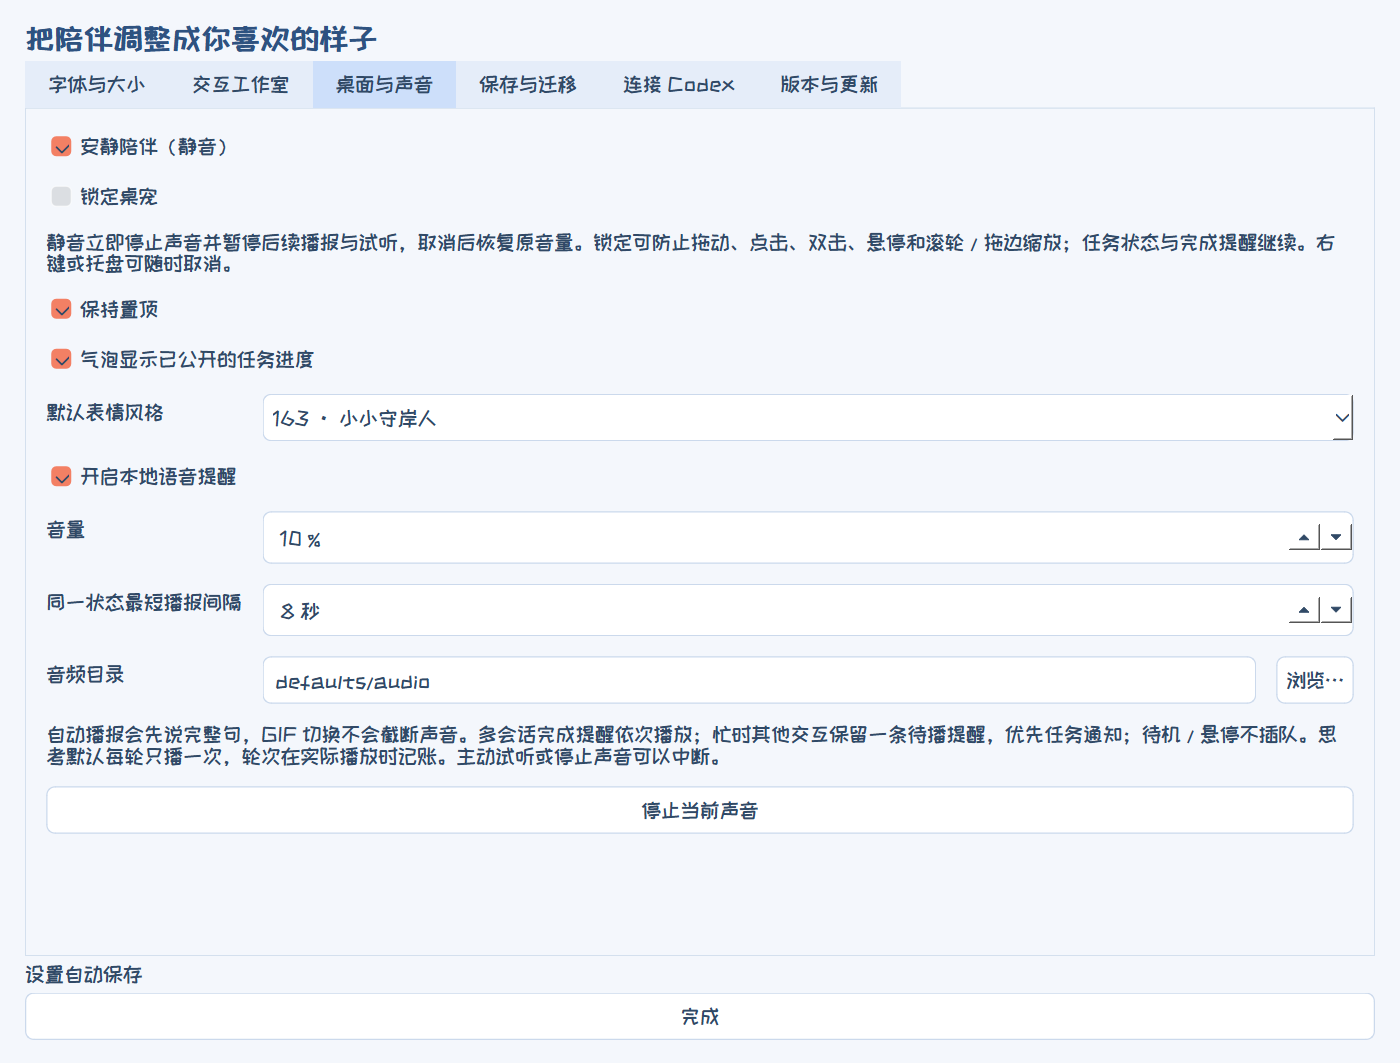
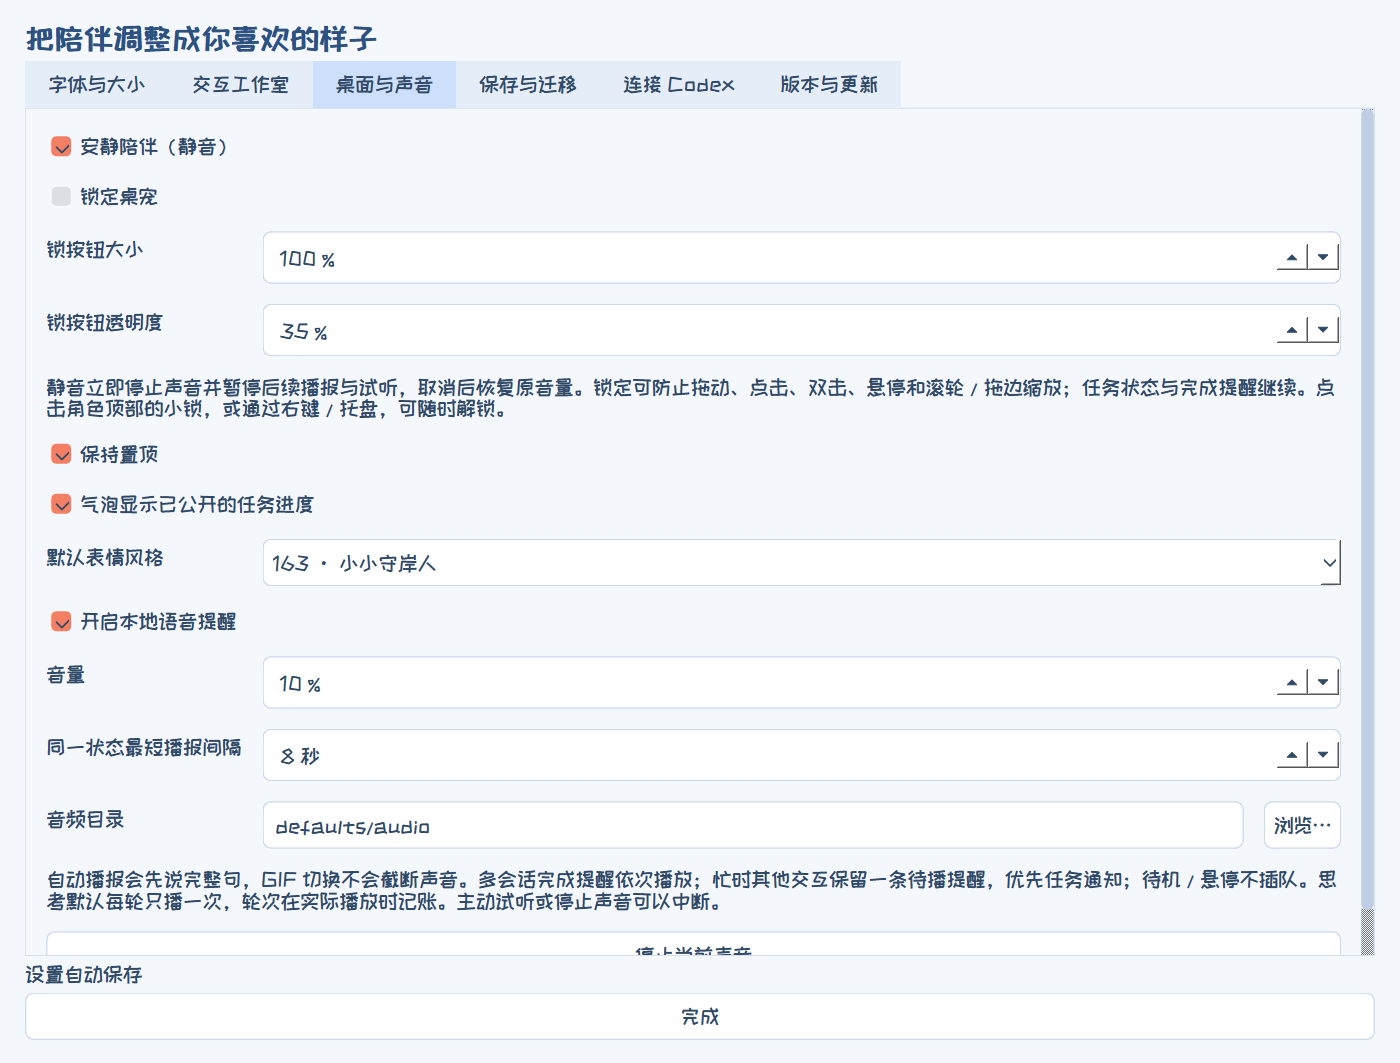
Add hover-revealed lock button with proportional size controls

Changed region(s): [[0.0307, 0.0931, 0.9829, 0.9003], [0.1843, 0.6209, 0.3071, 0.6519], [0.0307, 0.6209, 0.0921, 0.6519]]

diff --git a/tests/test_settings_controls.py b/tests/test_settings_controls.py
@@ -2,7 +2,7 @@
 import copy,json,pathlib,shutil,tempfile,unittest,wave
 from unittest.mock import patch
 from PySide6.QtCore import Qt,QPoint,QPointF,QEvent
-from PySide6.QtGui import QMouseEvent,QWheelEvent
+from PySide6.QtGui import QMouseEvent,QWheelEvent,QEnterEvent
 from PySide6.QtWidgets import QApplication,QPushButton
 from shorekeeper_pet import pet as module
 from shorekeeper_pet.config_io import save_atomic,migrate_settings,export_bundle,import_bundle
@@ -113,6 +113,67 @@ class SettingsControlsTests(unittest.TestCase):
             for name in ['audio/voice.wav','fonts/test.otf',module.ASSETS[self.aid]['path']]:self.assertEqual((source/name).read_bytes(),(self.root/name).read_bytes())
         with patch.object(p,'refresh_assets',return_value=[]): p.apply_settings(cfg)
         self.assertTrue(p.locked);self.assertTrue(p.options['audio_muted'])
+
+    def test_direct_lock_clicks_toggle_without_drag_or_character_reaction(self):
+        p=self.pet;button=p.lock_button;point=QPointF(button.rect().center())
+        before=(p.pos(),p.controller.serial)
+        for expected,tip in ((True,'点击解锁'),(False,'点击锁定')):
+            self.mouse(button,QEvent.Type.MouseButtonPress,point)
+            self.mouse(button,QEvent.Type.MouseButtonRelease,point)
+            self.assertEqual(p.locked,expected);self.assertEqual(button.isChecked(),expected)
+            self.assertEqual(button.toolTip(),tip)
+            self.assertEqual((p.pos(),p.controller.serial),before)
+            self.assertIsNone(p.drag_offset);self.assertFalse(p.click_timer.isActive())
+        self.mouse(button,QEvent.Type.MouseButtonPress,point)
+        outside=QPointF(button.width()+30,button.height()+30)
+        self.mouse(button,QEvent.Type.MouseMove,outside)
+        self.mouse(button,QEvent.Type.MouseButtonRelease,outside)
+        self.assertFalse(p.locked);self.assertEqual(p.pos(),before[0])
+
+    def test_lock_button_stays_centered_and_syncs_settings_and_hover(self):
+        p=self.pet;button=p.lock_button
+        for scale in (.5,1,1.5):
+            p.set_scale(scale)
+            self.assertAlmostEqual(button.x()+button.width()/2,p.pet_rect.center().x()*p.scale_factor,delta=1)
+            self.assertEqual(button.y(),round(p.pet_rect.top()*p.scale_factor))
+            self.assertTrue(p.rect().contains(button.geometry()))
+        p.hover_timer.start(500);p.click_timer.start(500);serial=p.controller.serial
+        point=QPointF(button.rect().center())
+        QApplication.sendEvent(button,QEnterEvent(point,point,QPointF(button.mapToGlobal(point.toPoint()))))
+        self.assertFalse(p.hover_timer.isActive());self.assertFalse(p.click_timer.isActive())
+        self.assertEqual(p.controller.serial,serial)
+        p.open_preferences('桌面与声音')
+        p.preferences.controls['interaction_locked'].setChecked(True)
+        self.assertTrue(button.isChecked());self.assertEqual(button.toolTip(),'点击解锁')
+        button.click();self.assertFalse(p.preferences.controls['interaction_locked'].isChecked())
+
+    def test_lock_transparency_changes_pixels_and_survives_export(self):
+        p=self.pet;p.open_preferences('桌面与声音');spin=p.preferences.controls['lock_button_transparency']
+        spin.setValue(0);solid=p.lock_button.grab().toImage()
+        spin.setValue(80);faint=p.lock_button.grab().toImage()
+        solid_alpha=sum(solid.pixelColor(x,y).alpha() for y in range(solid.height()) for x in range(solid.width()))
+        faint_alpha=sum(faint.pixelColor(x,y).alpha() for y in range(faint.height()) for x in range(faint.width()))
+        self.assertGreater(solid_alpha,faint_alpha*3)
+        p.preferences.controls['lock_button_size'].setValue(135)
+        cfg=module.load_settings();self.assertEqual(cfg['appearance']['lock_button_transparency'],80)
+        archive=self.root.parent/'lock.zip';self.assertEqual(export_bundle(archive,cfg,self.root),[])
+        restored=import_bundle(archive,self.root.parent/'换电脑')
+        self.assertEqual(restored['appearance']['lock_button_transparency'],80)
+        self.assertEqual(restored['appearance']['lock_button_size'],135)
+
+    def test_hover_reveals_lock_even_when_locked_and_size_scales_proportionally(self):
+        p=self.pet;b=p.lock_button
+        with patch('shorekeeper_pet.lock_button.QCursor.pos',return_value=QPoint(-3000,-3000)) as cursor:
+            for locked in (False,True):
+                p.set_option('interaction_locked',locked)
+                cursor.return_value=p.mapToGlobal(QPoint(-30,-30));b.refresh_visibility();self.assertFalse(b.isVisible())
+                cursor.return_value=p.mapToGlobal((p.pet_rect.center()*p.scale_factor).toPoint());b.refresh_visibility();self.assertTrue(b.isVisible())
+                cursor.return_value=p.mapToGlobal(b.geometry().center());b.refresh_visibility();self.assertTrue(b.isVisible())
+                cursor.return_value=p.mapToGlobal(p.quota_hit_rect().center().toPoint());b.refresh_visibility();self.assertFalse(b.isVisible())
+            p.set_scale(1);p.set_option('lock_button_size',75);small=b.width()
+            p.set_option('lock_button_size',150);self.assertAlmostEqual(b.width(),small*2,delta=1)
+            one=b.width();p.set_scale(1.5);self.assertAlmostEqual(b.width(),one*1.5,delta=1)
+            self.assertAlmostEqual(b.x()+b.width()/2,p.pet_rect.center().x()*p.scale_factor,delta=1)
 
     def test_legacy_quiet_migrates_and_explicit_new_preference_wins(self):
         self.assertTrue(migrate_settings({'quiet':True})['appearance']['audio_muted'])

diff --git a/shorekeeper_pet/lock_button.py b/shorekeeper_pet/lock_button.py
@@ -1,0 +1,80 @@
+"""A small hover-revealed lock toggle above the character."""
+from PySide6.QtCore import Qt,QRectF
+from PySide6.QtGui import QPainter,QPainterPath,QPen,QColor,QCursor
+from PySide6.QtWidgets import QAbstractButton
+
+
+class LockButton(QAbstractButton):
+    def __init__(self,pet):
+        super().__init__(pet);self.pet=pet;self.hovered=False
+        self.setCursor(Qt.CursorShape.PointingHandCursor)
+        self.setFocusPolicy(Qt.FocusPolicy.NoFocus)
+        self.setAttribute(Qt.WidgetAttribute.WA_TranslucentBackground)
+        self.setCheckable(True)
+        self.clicked.connect(lambda checked:pet.set_option('interaction_locked',checked))
+        self.sync();self.hide()
+
+    def sync(self):
+        self.setChecked(self.pet.locked)
+        text='点击解锁' if self.pet.locked else '点击锁定'
+        self.setToolTip(text);self.setAccessibleName(text);self.update()
+
+    def position_on_pet(self):
+        p=self.pet;s=p.scale_factor;r=p.pet_rect
+        size=max(1,round(28*p.options['lock_button_size']/100*p.options['pet_size']/230*s))
+        self.setGeometry(round(r.center().x()*s-size/2),max(0,round(r.top()*s)),size,size)
+        self.sync();self.raise_();self.refresh_visibility()
+
+    def refresh_visibility(self):
+        p=self.pet
+        over=p.pet_rect.contains(p.mapFromGlobal(QCursor.pos())/p.scale_factor)
+        self.setVisible(p.isVisible() and (over or self.isDown()))
+
+    def enterEvent(self,event):
+        self.hovered=True;self.pet.hover_timer.stop();self.pet.click_timer.stop();self.update()
+        super().enterEvent(event)
+
+    def leaveEvent(self,event):
+        self.hovered=False;self.update();super().leaveEvent(event)
+
+    def mousePressEvent(self,event):
+        self.pet.hover_timer.stop();self.pet.click_timer.stop()
+        if event.button()==Qt.MouseButton.LeftButton:self.setDown(True)
+        self.refresh_visibility();event.accept()
+
+    def mouseMoveEvent(self,event):
+        self.pet.hover_timer.stop()
+        if event.buttons()&Qt.MouseButton.LeftButton:self.setDown(self.rect().contains(event.position().toPoint()))
+        event.accept()
+
+    def mouseReleaseEvent(self,event):
+        if event.button()==Qt.MouseButton.LeftButton:
+            activate=self.isDown() and self.rect().contains(event.position().toPoint())
+            self.setDown(False)
+            if activate:self.click()
+        event.accept()
+
+    def mouseDoubleClickEvent(self,event): self.setDown(False);event.accept()
+    def wheelEvent(self,event): event.accept()
+    def contextMenuEvent(self,event): self.pet.contextMenuEvent(event)
+
+    def paintEvent(self,event):
+        painter=QPainter(self);painter.setRenderHint(QPainter.RenderHint.Antialiasing)
+        painter.scale(self.width()/36,self.height()/36)
+        opacity=1-self.pet.options['lock_button_transparency']/100
+        painter.setOpacity(opacity)
+        if self.isDown():painter.translate(0,1)
+        # Both outlines remain legible over light hair and dark backgrounds.
+        shackle=QPainterPath()
+        if self.isChecked():
+            shackle.moveTo(11,17);shackle.lineTo(11,11);shackle.cubicTo(11,2,25,2,25,11);shackle.lineTo(25,17)
+        else:
+            shackle.moveTo(13,17);shackle.lineTo(13,10);shackle.cubicTo(13,1,28,1,28,10)
+        painter.setPen(QPen(QColor('#203f67'),5,Qt.PenStyle.SolidLine,Qt.PenCapStyle.RoundCap));painter.drawPath(shackle)
+        painter.setPen(QPen(QColor('#edf6ff'),2.8,Qt.PenStyle.SolidLine,Qt.PenCapStyle.RoundCap));painter.drawPath(shackle)
+        painter.setPen(QPen(QColor('#dbefff'),1.5))
+        painter.setBrush(QColor('#2c6598' if self.isChecked() else '#55728e'))
+        painter.drawRoundedRect(QRectF(7,16,22,16),4,4)
+        painter.setPen(Qt.PenStyle.NoPen);painter.setBrush(QColor('#f3faff'))
+        painter.drawEllipse(QRectF(16.2,21,3.6,3.6));painter.drawRoundedRect(QRectF(17,23,2,4),.8,.8)
+        painter.end()

diff --git a/shorekeeper_pet/pet.py b/shorekeeper_pet/pet.py
@@ -22,6 +22,7 @@ from .presentation_size import EdgeResize
 from .media_library import load_catalog
 from .presets import load_defaults,default_bindings
 from .update_ui import UpdateController
+from .lock_button import LockButton
 from .quota import quota_view,quota_label,quota_details,refresh_seconds
 
 SETTINGS=ROOT/'settings.json'
@@ -131,6 +132,7 @@ class Pet(PetRenderer,QWidget):
         self.hovered=False; self.ignore_release=False
         self.click_timer=QTimer(self); self.click_timer.setSingleShot(True); self.click_timer.timeout.connect(lambda:self.react('pet'))
         self.hover_timer=QTimer(self); self.hover_timer.setSingleShot(True); self.hover_timer.timeout.connect(self.hover_react)
+        self.lock_button=LockButton(self)
         icon_im=self.animation.frames[0].scaled(64,64,Qt.AspectRatioMode.KeepAspectRatio,Qt.TransformationMode.SmoothTransformation)
         self.icon=QIcon(str(ROOT/'assets/shorekeeper.ico'))
         if self.icon.isNull(): self.icon=QIcon(QPixmap.fromImage(icon_im))
@@ -305,6 +307,7 @@ class Pet(PetRenderer,QWidget):
             if self.controller.owner=='preview' and self.preview_audio_clip is not None:
                 binding=dict(binding,audio_clips=[dict(self.preview_audio_clip,enabled=True)])
             self.voice.trigger(self.state,binding,self.options,preview=self.controller.owner=='preview',task=task_key(self.notification or self.live_status),notification=self.controller.owner=='notification'); self.update_layout()
+        self.lock_button.refresh_visibility()
         self.update_bubble()
         self.update()
 
@@ -347,6 +350,7 @@ class Pet(PetRenderer,QWidget):
             self.drag_offset=event.globalPosition().toPoint()-self.pos(); self.drag_origin=event.globalPosition().toPoint(); self.dragged=False
 
     def mouseMoveEvent(self, event):
+        self.lock_button.refresh_visibility()
         if self.locked: event.accept(); return
         if self.quota_resize.move(event,self.quota_hit_rect()): return
         if self.drag_offset is not None and event.buttons()&Qt.MouseButton.LeftButton:
@@ -384,6 +388,7 @@ class Pet(PetRenderer,QWidget):
         else: event.ignore()
 
     def enterEvent(self,event):
+        self.lock_button.refresh_visibility()
         if not self.locked: self.hover_timer.start(1000)
         super().enterEvent(event)
 
@@ -395,7 +400,7 @@ class Pet(PetRenderer,QWidget):
         super().leaveEvent(event)
 
     def hover_react(self):
-        if self.locked: return
+        if self.locked or self.lock_button.geometry().contains(self.mapFromGlobal(QCursor.pos())): return
         local=self.mapFromGlobal(QCursor.pos())/self.scale_factor
         if not self.quota_resize.active and self.drag_offset is None and not self.override and not self.hovered and self.underMouse() and self.pet_rect.contains(local):
             self.hovered=True; self.react('hover')

diff --git a/shorekeeper_pet/appearance.py b/shorekeeper_pet/appearance.py
@@ -1,6 +1,6 @@
 import math
 from PySide6.QtGui import QFont,QFontDatabase
-DEFAULTS=dict(audio_muted=False,interaction_locked=False,check_updates_on_start=True,ignored_update_version='',font_family='LXGW WenKai',bubble_font_family='ZCOOL KuaiLe',bubble_font_size=19,quota_font_size=17,ui_font_size=17,bubble_width=390,bubble_width_ratio=1.0,quota_scale=1.0,pet_size=230,volume=75,audio_enabled=False,audio_cooldown=12,audio_directory='audio',codex_home='',codex_executable='',launch_with_codex=False)
+DEFAULTS=dict(lock_button_size=100,lock_button_transparency=35,audio_muted=False,interaction_locked=False,check_updates_on_start=True,ignored_update_version='',font_family='LXGW WenKai',bubble_font_family='ZCOOL KuaiLe',bubble_font_size=19,quota_font_size=17,ui_font_size=17,bubble_width=390,bubble_width_ratio=1.0,quota_scale=1.0,pet_size=230,volume=75,audio_enabled=False,audio_cooldown=12,audio_directory='audio',codex_home='',codex_executable='',launch_with_codex=False)
 
 def load_fonts(root):
     families=[]
@@ -13,7 +13,7 @@ def load_fonts(root):
 def appearance(settings):
     result=dict(DEFAULTS); item=settings.get('appearance',{})
     if isinstance(item,dict): result.update({k:v for k,v in item.items() if k in DEFAULTS})
-    for key,low,high in [('bubble_font_size',12,40),('quota_font_size',12,32),('ui_font_size',13,28),('bubble_width',300,650),('bubble_width_ratio',.75,4),('quota_scale',.5,2.5),('pet_size',140,420),('volume',0,100),('audio_cooldown',0,300)]:
+    for key,low,high in [('lock_button_size',50,200),('lock_button_transparency',0,90),('bubble_font_size',12,40),('quota_font_size',12,32),('ui_font_size',13,28),('bubble_width',300,650),('bubble_width_ratio',.75,4),('quota_scale',.5,2.5),('pet_size',140,420),('volume',0,100),('audio_cooldown',0,300)]:
         value=result[key]; result[key]=max(low,min(high,value)) if isinstance(value,(float,int)) and math.isfinite(value) else DEFAULTS[key]
     for key in ('font_family','bubble_font_family','audio_directory','codex_home','codex_executable'):
         if not isinstance(result[key],str): result[key]=DEFAULTS[key]

diff --git a/shorekeeper_pet/preferences.py b/shorekeeper_pet/preferences.py
@@ -37,7 +37,9 @@ class Preferences(QDialog):
         voice=self.tab('桌面与声音')
         muted=QCheckBox('安静陪伴（静音）'); muted.toggled.connect(lambda value:self.change('audio_muted',value)); self.controls['audio_muted']=muted; voice.addRow(muted)
         locked=QCheckBox('锁定桌宠'); locked.toggled.connect(lambda value:self.change('interaction_locked',value)); self.controls['interaction_locked']=locked; voice.addRow(locked)
-        tip=QLabel('静音立即停止声音并暂停后续播报与试听，取消后恢复原音量。锁定可防止拖动、点击、双击、悬停和滚轮／拖边缩放；任务状态与完成提醒继续。右键或托盘可随时取消。'); tip.setWordWrap(True); voice.addRow(tip)
+        voice.addRow('锁按钮大小',self.spin('lock_button_size',50,200,' %'))
+        voice.addRow('锁按钮透明度',self.spin('lock_button_transparency',0,90,' %'))
+        tip=QLabel('静音立即停止声音并暂停后续播报与试听，取消后恢复原音量。锁定可防止拖动、点击、双击、悬停和滚轮／拖边缩放；任务状态与完成提醒继续。点击角色顶部的小锁，或通过右键／托盘，可随时解锁。'); tip.setWordWrap(True); voice.addRow(tip)
         self.top=QCheckBox('保持置顶'); self.top.toggled.connect(lambda value:pet.set_top(value) if not self.loading else None); voice.addRow(self.top)
         self.notes=QCheckBox('气泡显示已公开的任务进度'); self.notes.toggled.connect(lambda value:pet.set_notes(value) if not self.loading else None); voice.addRow(self.notes)
         self.pack=QComboBox(); self.pack.addItem('163 · 小小守岸人','163'); self.pack.addItem('GB0227 · 近景表情','GB0227'); self.pack.currentIndexChanged.connect(lambda:pet.set_pack(self.pack.currentData()) if not self.loading else None); voice.addRow('默认表情风格',self.pack)

diff --git a/shorekeeper_pet/settings_checks.py b/shorekeeper_pet/settings_checks.py
@@ -26,6 +26,10 @@ def verify_controls(pet):
             started=pet.voice.trigger('pet',binding,pet.options,preview=True)
             pet.set_option('audio_muted',True)
             muted=started and not pet.voice.busy and not pet.voice.pending.isActive() and pet.voice.queued is None and not pet.voice.trigger('pet',binding,pet.options,preview=True)
-        return dict(lock_pointer_check=locked,unlock_check=unlocked,mute_playback_check=muted)
+        pet.set_option('interaction_locked',False);pet.lock_button.click()
+        direct_lock=pet.locked and pet.lock_button.toolTip()=='点击解锁'
+        pet.lock_button.click()
+        direct_lock=direct_lock and not pet.locked and pet.lock_button.toolTip()=='点击锁定'
+        return dict(lock_button_check=direct_lock,lock_pointer_check=locked,unlock_check=unlocked,mute_playback_check=muted)
     finally:
         pet.voice.stop();pet.options=original;pet.save_settings();pet.preferences.refresh_controls()

diff --git a/shorekeeper_pet/renderer.py b/shorekeeper_pet/renderer.py
@@ -74,6 +74,7 @@ class PetRenderer:
             self.resize(neww,newh)
             if anchor:
                 self.move(round(anchor[0]-self.pet_rect.center().x()*self.scale_factor),round(anchor[1]-self.pet_rect.bottom()*self.scale_factor)); self.clamp_position()
+        self.lock_button.position_on_pet()
         self.setToolTip(self.quota_details()); self.update_bubble(); self.size_changed.emit()
 
     def update_bubble(self):

diff --git a/shorekeeper_pet/paths.py b/shorekeeper_pet/paths.py
@@ -1,7 +1,7 @@
 import os,pathlib,sys
 ROOT=pathlib.Path(sys.executable).resolve().parent if getattr(sys,'frozen',False) else pathlib.Path(__file__).resolve().parents[1]
 CODEX_HOME=pathlib.Path(os.environ.get('CODEX_HOME',pathlib.Path.home()/'.codex'))
-VERSION='0.10.0'
+VERSION='0.10.1'
 APP_NAME='守岸人Codex桌宠启动'
 EXECUTABLE_NAME=APP_NAME+'.exe'
 PORTABLE_DIRNAME='守岸人Codex桌宠'

diff --git a/README.md b/README.md
@@ -42,7 +42,7 @@
 ## 下载与使用
 
 1. 在 Windows 上安装并登录 **Codex**。
-2. 打开 [Releases](https://github.com/Doya16/shorekeeper-codex-pet/releases/latest)，下载 **Shorekeeper-Windows-v0.10.0.zip**。
+2. 打开 [Releases](https://github.com/Doya16/shorekeeper-codex-pet/releases/latest)，下载 **Shorekeeper-Windows-v0.10.1.zip**。
 3. 完整解压，运行 **守岸人Codex桌宠启动.exe**，保留同目录的其他文件夹。
 4. 右键桌宠 → **设置**，在 **交互工作室**中更换表情和语音，在 **连接 Codex** 中选择跟随的会话。
 
@@ -53,14 +53,18 @@
 右键桌宠或托盘 → **设置…**，在同一个窗口调整 **字体与大小、交互工作室、桌面与声音、保存与迁移、连接、版本与更新**。GIF、语音字幕、播放频率、启动联动和更新检查都在这里。
 
 - **安静陪伴（静音）**：立即停止当前和待播声音，同时暂停自动语音与试听；取消后恢复原音量，不补播静音期间的声音。
-- **锁定桌宠**：阻止误拖动、单击、双击、悬停和滚轮／拖边缩放。任务动画与完成提醒继续；仍可右键或通过托盘取消锁定。
+- **顶部小锁**：鼠标移到角色身上时，顶部居中会显示小锁，点击即可锁定／解锁；移开鼠标后隐藏，悬停显示“点击锁定”或“点击解锁”。锁定后阻止误拖动、单击、双击、悬停和滚轮／拖边缩放。任务动画与完成提醒继续；仍可右键或通过托盘取消锁定。
 - 两个开关都会自动保存，导出配置素材包或便携完整包时一起携带。旧版开启的“安静陪伴”会转为静音；新加入的锁定默认关闭。
+
+小锁大小可在 **设置 → 桌面与声音** 调整，之后随桌宠整体等比例缩放。
+
+<img src="docs/demo/pet-lock.png" width="180" alt="桌宠顶部小锁（示例）">
 
 ![统一设置中的桌面与声音选项](docs/demo/unified-settings.png)
 
 ## 检查更新与保留配置升级
 
-当前版本：**v0.10.0**。每次启动桌宠后，自动在后台检查 GitHub 正式版本；发现新版才弹出提示。右键 → **设置 → 版本与更新 → 立即检查更新** 可随时手动检查。
+当前版本：**v0.10.1**。每次启动桌宠后，自动在后台检查 GitHub 正式版本；发现新版才弹出提示。右键 → **设置 → 版本与更新 → 立即检查更新** 可随时手动检查。
 
 在 **设置 → 版本与更新** 中，可关闭启动检查、立即检查或恢复已忽略版本的提醒。新版提示支持 **打开更新页面、备份配置与素材、稍后提醒、忽略此版本**。网络检查失败不会打断桌宠。
 
@@ -70,8 +74,8 @@
 
 | 当前情况 | 如何更新 |
 | --- | --- |
-| 已有 v0.9.9 | 下载 [v0.10.0 程序补丁](https://github.com/Doya16/shorekeeper-codex-pet/releases/download/v0.10.0/Shorekeeper-Settings-Patch-v0.10.0.zip)，退出桌宠，将补丁解压到原目录并覆盖同名文件，然后重新启动 |
-| 首次使用，或安装了其他旧版 | 下载 [v0.10.0 完整包](https://github.com/Doya16/shorekeeper-codex-pet/releases/download/v0.10.0/Shorekeeper-Windows-v0.10.0.zip)，解压到新目录；已有配置时，再导入自己导出的配置与素材 ZIP |
+| 已有 v0.10.0 | 下载 [v0.10.1 程序补丁](https://github.com/Doya16/shorekeeper-codex-pet/releases/download/v0.10.1/Shorekeeper-Settings-Patch-v0.10.1.zip)，退出桌宠，将补丁解压到原目录并覆盖同名文件，然后重新启动 |
+| 首次使用，或安装了其他旧版 | 下载 [v0.10.1 完整包](https://github.com/Doya16/shorekeeper-codex-pet/releases/download/v0.10.1/Shorekeeper-Windows-v0.10.1.zip)，解压到新目录；已有配置时，再导入自己导出的配置与素材 ZIP |
 
 程序补丁保留 **GIF / 图片、音频、气泡字幕、字体和个人设置**。更新前可在 **保存与迁移 → 导出配置与素材包（ZIP）** 留一份备份。程序补丁直接解压覆盖，不在设置中导入。
 

diff --git a/docs/USAGE.md b/docs/USAGE.md
@@ -192,6 +192,6 @@ python -m venv .venv
 
 右键勾选 **安静陪伴（静音）** 后，立即停止当前及待播声音，自动播报和主动试听都不再发声。取消勾选后恢复原来的音量；静音期间的声音不会补播。也可在 **设置 → 桌面与声音** 调整。
 
-勾选 **锁定桌宠** 后，不会因拖动、单击、双击、悬停、Ctrl + 滚轮或拖动气泡／配额条边缘而改变桌宠。任务动画、完成提醒和额度刷新仍会运行。可通过桌宠或托盘的右键菜单取消锁定，也可以在设置中明确调整大小。
+鼠标移到桌宠身上，点击顶部居中的小锁，或勾选 **锁定桌宠** 后，不会因拖动、单击、双击、悬停、Ctrl + 滚轮或拖动气泡／配额条边缘而改变桌宠。任务动画、完成提醒和额度刷新仍会运行。可通过桌宠或托盘的右键菜单取消锁定，也可以在设置中明确调整大小。
 
 两个开关自动保存，随配置素材包和完整便携包迁移。旧版“安静陪伴”开启时迁移为静音；旧版未提供的锁定功能默认为关闭。
